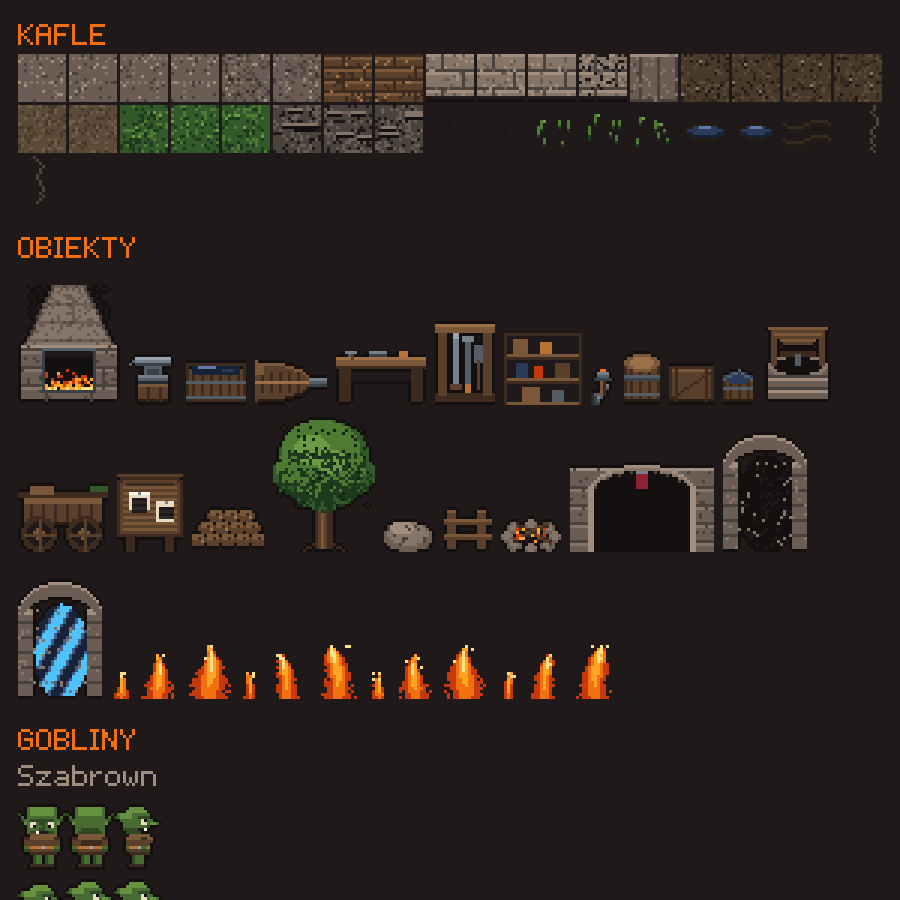
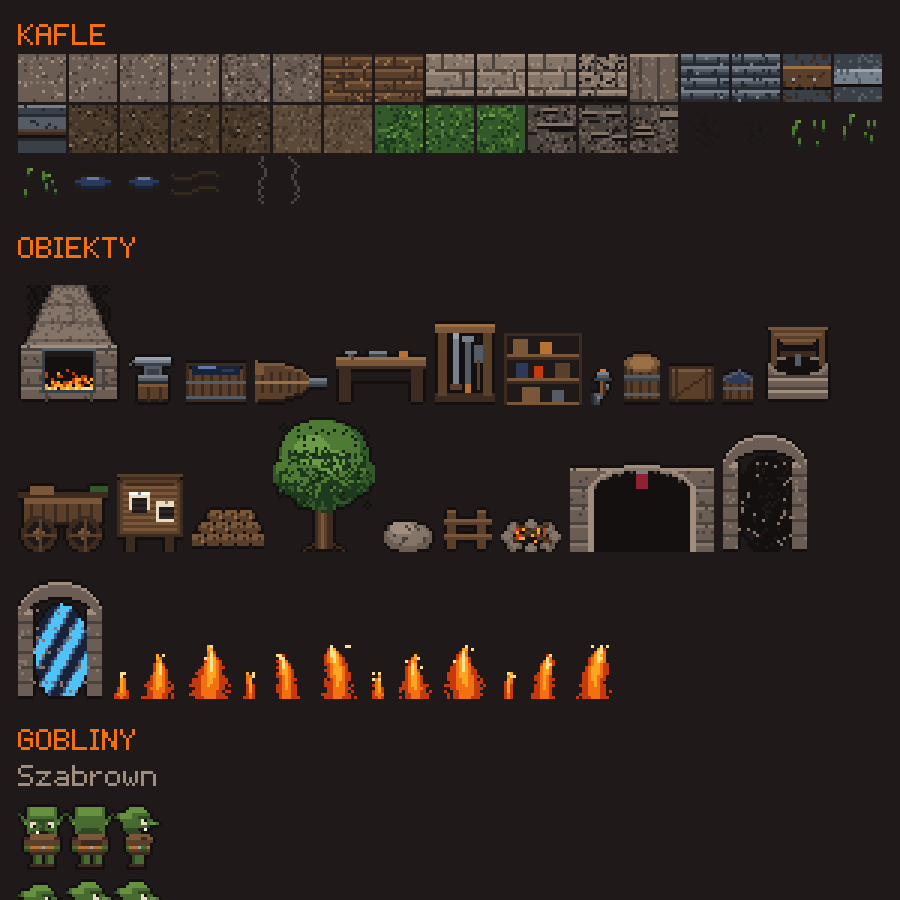
Dach hali i ograniczona widocznosc
Dach jako osobna warstwa kafli nad postaciami: z placu zaslania wnetrze,
po wejsciu pod spod zanika do sladu. Lupek z rampy zelaza, nie deski z rampy
drewna — pierwsza wersja byla brazowa i czytala sie jak ubita ziemia.

W dachu jest wneka nad brama plus okap na krawedziach, zeby z placu bylo
widac, gdzie sie wchodzi. Bez tego budynek byl zamknieta plyta.

Ograniczona widocznosc: stojac w hali widzisz hale, plac za murem gasnie.
Krawedz rozmyta pasem gradientu — ostry prostokat byl znana wada tej warstwy
jeszcze przy samym kolorze otoczenia.

Changed region(s): [[0.0, 0.0622, 0.9956, 0.2178]]

diff --git a/tools/art/tiles.js b/tools/art/tiles.js
@@ -110,6 +110,79 @@ function wallTop(name) {
   return t;
 }
 
+// --- Dach ---------------------------------------------------------------------
+//
+// Dach ogląda się z góry pod skosem, więc gont układa się w poziome rzędy
+// z zakładką. Jest wyraźnie ciemniejszy od wszystkiego pod spodem — to on ma
+// czytać się jako "tu nie zaglądasz", zanim jeszcze zadziała oświetlenie.
+
+function roofShingles(name, { offset = 0 } = {}) {
+  const rng = rngFor(name);
+  const t = new Canvas(TILE, TILE);
+  // Łupek, nie deski. Rampa żelaza jest chłodna i granatowa, więc dachu nie da
+  // się pomylić z ubitą ziemią — a przy rampie drewna dokładnie tak było.
+  t.fill(c('iron', 1));
+
+  for (let row = 0; row < 4; row++) {
+    const y = row * 4;
+    t.hline(0, TILE - 1, y, c('iron', 3));       // światło na krawędzi rzędu
+    t.hline(0, TILE - 1, y + 1, c('iron', 2));
+    t.hline(0, TILE - 1, y + 3, c('iron', 0));   // cień rzucany na rząd niżej
+    // Styki płytek przesunięte co rząd — inaczej dach czyta się jak krata.
+    const shift = (row + offset) % 2 === 0 ? 4 : 11;
+    t.vline(shift, y + 1, y + 3, c('iron', 0));
+    t.vline((shift + 8) % TILE, y + 1, y + 3, c('iron', 0));
+  }
+
+  t.speckle(rng, c('iron', 0), 0.08);
+  t.speckle(rng, c('iron', 3), 0.04);
+  return t;
+}
+
+/** Krokiew — drewniana belka przez łupek. Kontrast materiału czyta konstrukcję. */
+function roofBeam(name) {
+  const rng = rngFor(name);
+  const t = new Canvas(TILE, TILE);
+  t.fill(c('iron', 1));
+  t.rect(0, 4, TILE, 8, c('wood', 2));
+  t.hline(0, TILE - 1, 4, c('wood', 4));    // światło na górnej krawędzi belki
+  t.hline(0, TILE - 1, 11, c('soot', 0));   // cień pod belką
+  t.speckle(rng, c('wood', 1), 0.14);       // słoje
+  for (let x = 3; x < TILE; x += 7) t.px(x, 8, c('iron', 4));  // ćwieki
+  return t;
+}
+
+/** Kalenica — jasny grzbiet na osi dachu. */
+function roofRidge(name) {
+  const rng = rngFor(name);
+  const t = new Canvas(TILE, TILE);
+  t.fill(c('iron', 1));
+  t.rect(0, 5, TILE, 6, c('iron', 3));
+  t.hline(0, TILE - 1, 5, c('iron', 4));
+  t.hline(0, TILE - 1, 10, c('soot', 0));
+  t.speckle(rng, c('iron', 2), 0.12);
+  return t;
+}
+
+/**
+ * Okap — dolna krawędź dachu. Wystaje poza mur i rzuca cień, dzięki czemu dach
+ * czyta się jako coś położonego NAD budynkiem, a nie jako kolejna warstwa gruntu.
+ */
+function roofEave(name) {
+  const rng = rngFor(name);
+  const t = new Canvas(TILE, TILE);
+  t.fill(c('iron', 1));
+  t.hline(0, TILE - 1, 0, c('iron', 3));
+  t.hline(0, TILE - 1, 3, c('iron', 0));
+  t.rect(0, 4, TILE, 4, c('iron', 2));
+  t.hline(0, TILE - 1, 8, c('wood', 2));     // deska okapowa
+  t.hline(0, TILE - 1, 9, c('wood', 1));
+  t.hline(0, TILE - 1, 10, c('soot', 0));    // cień rzucany na ścianę
+  t.hline(0, TILE - 1, 11, `${c('soot', 0)}88`);
+  t.speckle(rng, c('iron', 0), 0.06, { x: 0, y: 0, w: TILE, h: 8 });
+  return t;
+}
+
 // --- Plac na zewnątrz ---------------------------------------------------------
 
 /** Ubita ziemia — baza całego placu. */
@@ -267,6 +340,11 @@ export function buildTiles() {
   for (let i = 0; i < 3; i++) add(`wall_face_${i}`, wallFace(`wall_face_${i}`));
   add('wall_face_soot', wallFace('wall_face_soot', { soot: 0.5 }));
   add('wall_top', wallTop('wall_top'));
+
+  for (let i = 0; i < 2; i++) add(`roof_${i}`, roofShingles(`roof_${i}`, { offset: i }));
+  add('roof_beam', roofBeam('roof_beam'));
+  add('roof_ridge', roofRidge('roof_ridge'));
+  add('roof_eave', roofEave('roof_eave'));
 
   for (let i = 0; i < 4; i++) add(`dirt_${i}`, dirt(`dirt_${i}`));
   for (let i = 0; i < 2; i++) add(`path_${i}`, path(`path_${i}`));

diff --git a/client/src/render/lighting.js b/client/src/render/lighting.js
@@ -15,10 +15,13 @@ const AMBIENT_FORGE = [122, 96, 84];
 const AMBIENT_YARD = [86, 100, 140];
 
 export class Lighting {
-  constructor(scene, world, interior) {
+  constructor(scene, world, interior, building = interior) {
     this.scene = scene;
     this.world = world;
     this.interior = interior;
+    // Obrys budynku razem z murami — po nim tniemy widoczność. Różni się od
+    // `interior`, który opisuje samą podłogę hali i steruje kolorem otoczenia.
+    this.building = building;
     this.key = 'lightmask';
     this.texture = null;
     this.width = 0;
@@ -41,7 +44,45 @@ export class Lighting {
     this.height = h;
   }
 
-  update(time) {
+  /**
+   * Przygasza wszystko poza budynkiem. Używane, gdy gracz stoi w hali: plac za
+   * murem ma zniknąć w mroku, tak jak w prawdziwym wnętrzu nie widać, co dzieje
+   * się na dworze.
+   *
+   * Krawędź jest rozmyta pasem gradientu. Ostry prostokąt czytał się jak błąd
+   * renderowania — to była znana wada tej warstwy jeszcze przy samym ambiencie.
+   */
+  occlude(ctx, w, h, box, strength) {
+    if (strength <= 0.01) return;
+    const feather = 30 / RESOLUTION;
+    const dark = (a) => `rgba(10,8,16,${(a * strength).toFixed(3)})`;
+    const SOLID = 0.9;
+
+    ctx.globalCompositeOperation = 'multiply';
+
+    // Pełny mrok poza pasem rozmycia, po każdej ze stron.
+    ctx.fillStyle = dark(SOLID);
+    ctx.fillRect(0, 0, w, Math.max(0, box.y0 - feather));
+    ctx.fillRect(0, Math.min(h, box.y1 + feather), w, h);
+    ctx.fillRect(0, 0, Math.max(0, box.x0 - feather), h);
+    ctx.fillRect(Math.min(w, box.x1 + feather), 0, w, h);
+
+    // Pasy przejściowe przy samych ścianach.
+    const strip = (x, y, sw, sh, gx0, gy0, gx1, gy1) => {
+      if (sw <= 0 || sh <= 0) return;
+      const g = ctx.createLinearGradient(gx0, gy0, gx1, gy1);
+      g.addColorStop(0, dark(SOLID));
+      g.addColorStop(1, dark(0));
+      ctx.fillStyle = g;
+      ctx.fillRect(x, y, sw, sh);
+    };
+    strip(0, box.y0 - feather, w, feather, 0, box.y0 - feather, 0, box.y0);
+    strip(0, box.y1, w, feather, 0, box.y1 + feather, 0, box.y1);
+    strip(box.x0 - feather, 0, feather, h, box.x0 - feather, 0, box.x0, 0);
+    strip(box.x1, 0, feather, h, box.x1 + feather, 0, box.x1, 0);
+  }
+
+  update(time, inside = false) {
     const view = this.scene.cameras.main.worldView;
     const w = Math.ceil(view.width / RESOLUTION) + 2;
     const h = Math.ceil(view.height / RESOLUTION) + 2;
@@ -82,7 +123,17 @@ export class Lighting {
       ctx.fill();
     }
 
-    // 3. Winieta — przygasza rogi kadru i zbiera uwagę na środku.
+    // 3. Ograniczona widoczność. Wygaszamy stopniowo, żeby przejście przez bramę
+    // nie było przeskokiem — mrok na placu narasta w trakcie wchodzenia.
+    this.hidden = (this.hidden ?? 0) + ((inside ? 1 : 0) - (this.hidden ?? 0)) * 0.08;
+    this.occlude(ctx, w, h, {
+      x0: toMaskX(this.building.x),
+      y0: toMaskY(this.building.y),
+      x1: toMaskX(this.building.x + this.building.w),
+      y1: toMaskY(this.building.y + this.building.h),
+    }, this.hidden);
+
+    // 4. Winieta — przygasza rogi kadru i zbiera uwagę na środku.
     ctx.globalCompositeOperation = 'source-over';
     const vignette = ctx.createRadialGradient(w / 2, h / 2, Math.min(w, h) * 0.32, w / 2, h / 2, Math.max(w, h) * 0.72);
     vignette.addColorStop(0, 'rgba(0,0,0,0)');

diff --git a/client/src/scenes/Forge.js b/client/src/scenes/Forge.js
@@ -1,6 +1,6 @@
 // Kuźnia — jedyna na razie strefa świata.
 
-import { buildWorld, surfaceAt, TILE, WORLD_W, WORLD_H, SPAWN, INTERIOR_PX } from '../world/forge.js';
+import { buildWorld, surfaceAt, TILE, WORLD_W, WORLD_H, SPAWN, INTERIOR_PX, ROOF_PX } from '../world/forge.js';
 import { poseOf, KEY_UP, KEY_DOWN, KEY_LEFT, KEY_RIGHT, KEY_RUN } from '../world/movement.js';
 import { Lighting } from '../render/lighting.js';
 import { ShadowCaster } from '../render/shadows.js';
@@ -23,8 +23,9 @@ export class ForgeScene extends Phaser.Scene {
     this.spawnFlames();
     this.spawnPlayer();
     this.spawnParticles();
+    this.drawRoof();
 
-    this.lighting = new Lighting(this, this.world, INTERIOR_PX);
+    this.lighting = new Lighting(this, this.world, INTERIOR_PX, ROOF_PX);
 
     this.setupCamera();
     this.setupInput();
@@ -56,6 +57,43 @@ export class ForgeScene extends Phaser.Scene {
       ground.batchDrawFrame('tiles', this.tileIndex[decal.key], decal.x, decal.y);
     }
     ground.endDraw();
+  }
+
+  /**
+   * Dach hali — jedna tekstura rysowana nad postaciami. Z zewnątrz zasłania
+   * wnętrze, po wejściu pod spód zanika, ale nie do zera: zostaje ślad, żeby
+   * dalej było widać, że stoi się pod dachem, a nie na podwórku.
+   *
+   * Głębokość musi być poniżej warstwy świetlnej (9000), inaczej dach nie
+   * dostawałby oświetlenia i świeciłby jak wycinanka.
+   */
+  drawRoof() {
+    const roof = this.add.renderTexture(ROOF_PX.x, ROOF_PX.y, ROOF_PX.w, ROOF_PX.h)
+      .setOrigin(0, 0)
+      .setDepth(8600);
+
+    roof.beginDraw();
+    for (const tile of this.world.roof) {
+      roof.batchDrawFrame('tiles', this.tileIndex[tile.key], tile.x - ROOF_PX.x, tile.y - ROOF_PX.y);
+    }
+    roof.endDraw();
+
+    this.roof = roof;
+    this.roofAlpha = 1;
+  }
+
+  /** Czy stopy gracza są pod obrysem dachu. */
+  isUnderRoof(x, y) {
+    return x >= ROOF_PX.x && x <= ROOF_PX.x + ROOF_PX.w
+      && y >= ROOF_PX.y && y <= ROOF_PX.y + ROOF_PX.h;
+  }
+
+  updateRoof(dt) {
+    const target = this.isUnderRoof(this.px, this.py) ? 0.12 : 1;
+    // Przejście płynne, bo skok przezroczystości przy przekraczaniu bramy
+    // czyta się jak błąd wyświetlania.
+    this.roofAlpha += (target - this.roofAlpha) * Math.min(1, dt * 6);
+    this.roof.setAlpha(this.roofAlpha);
   }
 
   spawnProps() {
@@ -198,7 +236,8 @@ export class ForgeScene extends Phaser.Scene {
     this.movePlayer(delta);
     this.animatePlayer(time);
     this.updateOthers();
-    this.lighting.update(time);
+    this.updateRoof(dt);
+    this.lighting.update(time, this.isUnderRoof(this.px, this.py));
     this.updateAmbience(dt);
     this.reportZone();
   }

diff --git a/client/src/world/forge.js b/client/src/world/forge.js
@@ -245,6 +245,60 @@ function buildSoundSources() {
   ];
 }
 
+/**
+ * Dach hali. Osobna warstwa kafli rysowana NAD postaciami — z zewnątrz zasłania
+ * wnętrze, a gdy gracz wejdzie pod spód, zanika.
+ *
+ * Kryje cały obrys budynku razem z murami, bo dach wsparty na koronie muru musi
+ * ją przykrywać — inaczej widać szew między krawędzią dachu a ścianą.
+ */
+export const ROOF = {
+  x0: BUILDING.x0,
+  x1: BUILDING.x1,
+  y0: BUILDING.y0,
+  y1: BUILDING.y1,
+};
+
+/** Prostokąt dachu w pikselach — po nim poznajemy, czy gracz jest pod dachem. */
+export const ROOF_PX = {
+  x: ROOF.x0 * TILE,
+  y: ROOF.y0 * TILE,
+  w: (ROOF.x1 - ROOF.x0 + 1) * TILE,
+  h: (ROOF.y1 - ROOF.y0 + 1) * TILE,
+};
+
+/**
+ * Wnęka wejściowa: dach jest wycięty nad bramą i o kafel po bokach, więc z placu
+ * widać, że tam się wchodzi. Bez tego budynek był zamkniętą płytą i nie dało się
+ * odgadnąć, gdzie jest wejście.
+ */
+const PORCH = { x0: GATE.x0 - 1, x1: GATE.x1 + 1, y0: 17, y1: 19 };
+
+function buildRoof() {
+  const rng = makeRng(seedFrom('forge-roof'));
+  const tiles = [];
+  // Kalenica biegnie w poziomie środkiem hali — hala jest szersza niż głębsza.
+  const ridge = Math.round((ROOF.y0 + ROOF.y1) / 2);
+
+  for (let y = ROOF.y0; y <= ROOF.y1; y++) {
+    for (let x = ROOF.x0; x <= ROOF.x1; x++) {
+      const inPorch = x >= PORCH.x0 && x <= PORCH.x1 && y >= PORCH.y0 && y <= PORCH.y1;
+      if (inPorch) continue;
+
+      let key;
+      // Okap na dolnej krawędzi dachu oraz na krawędziach wnęki — to on sprawia,
+      // że dach czyta się jako coś nad budynkiem, a nie kolejna warstwa gruntu.
+      const atPorchEdge = y === PORCH.y0 - 1 && x >= PORCH.x0 - 1 && x <= PORCH.x1 + 1;
+      if (y === ROOF.y1 || atPorchEdge) key = 'roof_eave';
+      else if (y === ridge) key = 'roof_ridge';
+      else if ((x - ROOF.x0) % 7 === 3) key = 'roof_beam';   // krokwie co siedem kafli
+      else key = `roof_${rng.int(2)}`;
+      tiles.push({ key, x: x * TILE, y: y * TILE });
+    }
+  }
+  return tiles;
+}
+
 /** Rodzaj gruntu pod podanym punktem — decyduje, jak brzmi krok. */
 export function surfaceAt(world, x, y) {
   const tx = Math.floor(x / TILE);
@@ -281,6 +335,7 @@ export function buildWorld() {
   return {
     tiles,
     decals: buildDecals(tiles),
+    roof: buildRoof(),
     props,
     lights: buildLights(),
     flames: buildFlames(),
